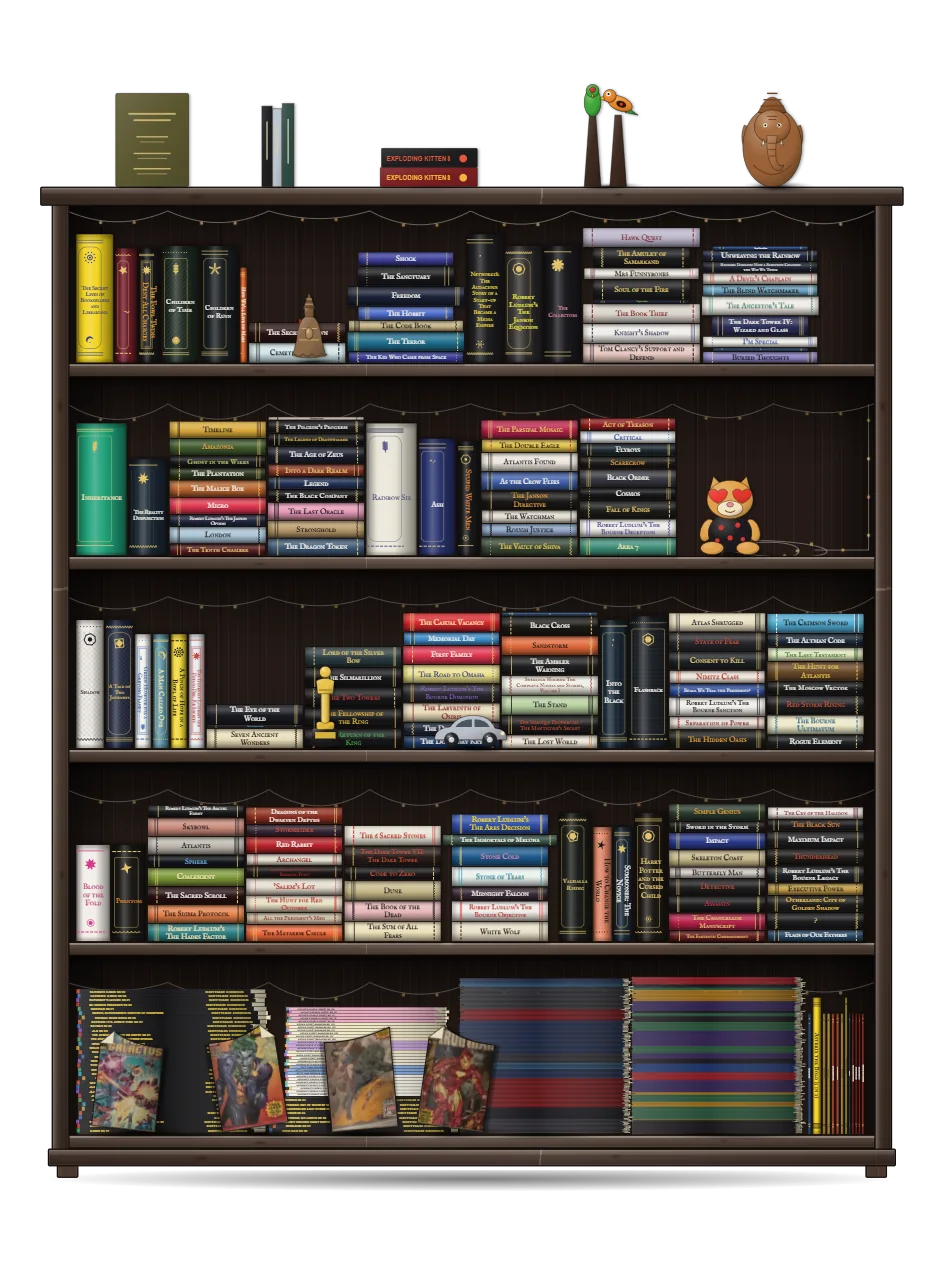
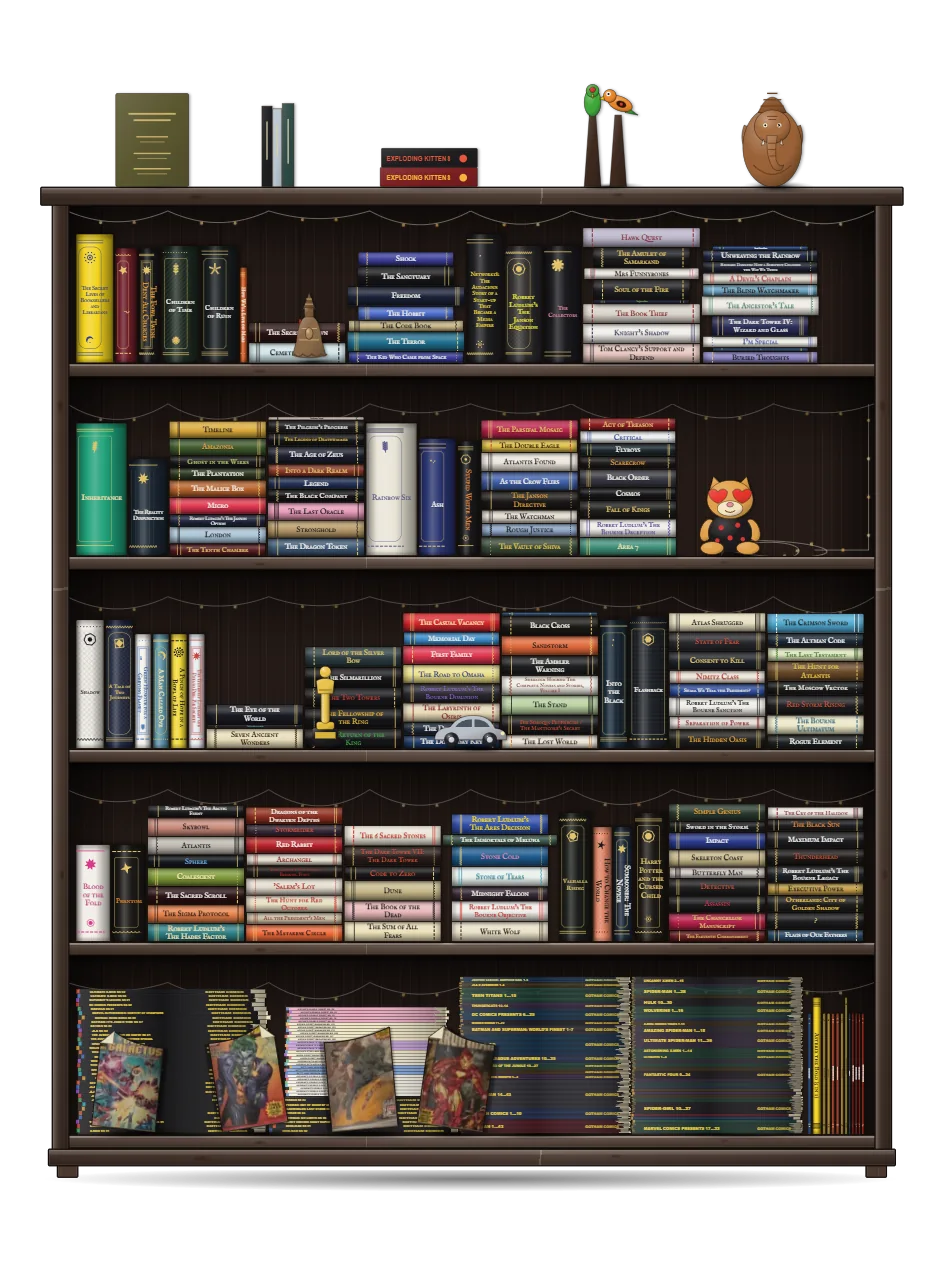
Dungeon v2.21.14
Library: the single-issue piles drawn as a set (a lettered band for each title); Gotham-style plates for titles without a cover.

Changed region(s): [[0.4579, 0.7488, 0.8547, 0.9048]]

diff --git a/assets/js/library.js b/assets/js/library.js
@@ -595,7 +595,24 @@
     const SPR=root.dataset.src.replace('data/library.json','images/comics/covers.webp'),COLS=12,ROWS=5,CWD=150,CHT=215,CC=CTX.cc||{};
     const short=t=>t.toUpperCase().replace(/&/g,'AND').replace(/\s*\(?SUPER SPECIAL (\d+)\)?/,' SS $1').replace(/\(SPECIAL (\d+)\)/,'SP $1').replace(/\s+No\.\s*/,' ').replace(/'/g,'\u2019').replace(/[<>"]/g,'');
     const cvAt=i=>[i%COLS,Math.floor(i/COLS)];
-    function pileArt(P,ms,Wo){const n=ms.length,W=Math.round(Wo||P.w||170),th=Math.min(P.th||6,(P.cap||240)/n),H=Math.ceil(n*th)+3,id='pg'+P.id.replace(/\W/g,''),lab=th>=4.2,f=v=>v.toFixed(2),fs=th*.66,GC=['#d8302a','#2f6fd0','#e7a62a','#3aa85a','#9a4ad0','#e8532a','#2ab0c8'];
+    /* A pile of single issues is a set: one band for each title, lettered with its name and the issues in it, as a boxed set is */
+    function setArt(P,ms,Wo){const W=Math.round(Wo||P.w||170),f=v=>v.toFixed(2),th=P.th||2,id='pg'+P.id.replace(/\W/g,''),PAL=['#1B1B22','#23304F','#4A1A22','#1F3F36','#33263F','#3A2E1C','#14304A','#2E2E36'];
+      const rn=i=>{const x=Math.sin(i*12.9898+W)*43758.5453;return x-Math.floor(x)},G=[],ix={};
+      ms.forEach(b=>{const n=b.t.replace(/\s+No\.\s*\d+$/,'');if(!(n in ix)){ix[n]=G.length;G.push({n,it:[]})}G[ix[n]].it.push(b)});
+      const hs=G.map(g=>Math.max(g.it.length*th,8.5)),tot=hs.reduce((a,b)=>a+b,0),k=Math.min(1,(P.cap||240)/tot),H=Math.ceil(tot*k)+3;
+      let g='<defs><linearGradient id="'+id+'" x1="0" y1="0" x2="1" y2="0"><stop offset="0" stop-color="#fff" stop-opacity=".16"/><stop offset=".45" stop-color="#fff" stop-opacity="0"/><stop offset="1" stop-color="#000" stop-opacity=".32"/></linearGradient></defs><g stroke="none">',y=1;
+      G.forEach((gr,gi)=>{const bh=hs[gi]*k,n=gr.it.length,sh=bh/n,col=PAL[(gr.n.length*7+gr.n.charCodeAt(0)+gi)%PAL.length],nums=gr.it.map(b=>+((/No\.\s*(\d+)$/.exec(b.t)||[])[1]||0)).filter(Boolean);
+        for(let i=0;i<n;i++){const yy=y+i*sh,r=rn(gi*40+i),dx=(r-.5)*W*.018,pb=W*.03+rn(gi*40+i+9)*W*.05,body=W-pb;
+          g+='<rect x="'+f(dx+body-1)+'" y="'+f(yy)+'" width="'+f(pb+1.5)+'" height="'+f(Math.max(.6,sh*.86))+'" fill="'+(rn(i+gi)>.5?'#e4d8b6':'#eee3c4')+'"/>';
+          g+='<rect x="'+f(dx)+'" y="'+f(yy)+'" width="'+f(body)+'" height="'+f(Math.max(.6,sh*.86))+'" fill="'+col+'"/>';
+          if(i%2===0)g+='<rect x="'+f(dx)+'" y="'+f(yy)+'" width="'+f(W*.014)+'" height="'+f(Math.max(.6,sh*.86))+'" fill="#e7a62a" opacity=".7"/>'}
+        g+='<rect x="0" y="'+f(y+bh-.5)+'" width="'+W+'" height=".7" fill="#000" opacity=".55"/>';
+        const fs=Math.min(bh*.52,6.6),lab=short(gr.n.replace(/^The /i,''))+(nums.length?'  '+(nums.length>1&&nums[nums.length-1]-nums[0]===nums.length-1?nums[0]+'\u2013'+nums[nums.length-1]:nums.length>1?nums[0]+'\u2026'+nums[nums.length-1]:nums[0]):'');
+        if(bh>=7.5){g+='<text x="'+f(W*.07)+'" y="'+f(y+bh*.5+fs*.36)+'" font-family="Arial,Helvetica,sans-serif" font-weight="800" font-size="'+f(fs)+'" fill="#E7C63A" textLength="'+f(Math.min(W*.6,lab.length*fs*.62))+'" lengthAdjust="spacingAndGlyphs">'+lab+'</text>';
+          if(P.imprint)g+='<text x="'+f(W*.74)+'" y="'+f(y+bh*.5+fs*.36)+'" font-family="Arial,Helvetica,sans-serif" font-weight="800" font-size="'+f(fs*.85)+'" fill="#E7C63A" textLength="'+f(W*.2)+'" lengthAdjust="spacingAndGlyphs">'+P.imprint+'</text>'}
+        y+=bh});
+      g+='<rect x="0" y="0" width="'+W+'" height="'+H+'" fill="url(#'+id+')"/></g>';return[Math.ceil(W+8),H,g]}
+    function pileArt(P,ms,Wo){if(P.sets)return setArt(P,ms,Wo);const n=ms.length,W=Math.round(Wo||P.w||170),th=Math.min(P.th||6,(P.cap||240)/n),H=Math.ceil(n*th)+3,id='pg'+P.id.replace(/\W/g,''),lab=th>=4.2,f=v=>v.toFixed(2),fs=th*.66,GC=['#d8302a','#2f6fd0','#e7a62a','#3aa85a','#9a4ad0','#e8532a','#2ab0c8'];
       const rn=i=>{const x=Math.sin(i*12.9898+W)*43758.5453;return x-Math.floor(x)};
       let g='<defs><linearGradient id="'+id+'" x1="0" y1="0" x2="1" y2="0"><stop offset="0" stop-color="#fff" stop-opacity=".16"/><stop offset=".45" stop-color="#fff" stop-opacity="0"/><stop offset="1" stop-color="#000" stop-opacity=".32"/></linearGradient></defs><g stroke="none">';
       ms.forEach((b,i)=>{const y=1+i*th,r=rn(i+3),dx=(r-.5)*(r>.86?W*.05:W*.02),h=th*(th>=4?.9:.84),pb=Math.min(W*.12,th>=4?W*.03+rn(i+9)*W*.05:W*.03),body=W-pb;
@@ -833,8 +850,8 @@
         .then(r=>r.json()).then(d=>{const id=d.docs&&d.docs[0]&&d.docs[0].cover_i,u=id?'https://covers.openlibrary.org/b/id/'+id+'-M.jpg':'';
           cache[e.t]=u;try{localStorage.setItem('dungeon-library-covers',JSON.stringify(cache))}catch(err){}show(u)}).catch(()=>{})}
     /* The card of a pile: one cover for each title, as in the photograph; a title opens to show every issue there is of it */
-    function cover(el,name,idx,b){el.className='lb-cv';if(idx!=null){const[cx,cy]=cvAt(idx);el.style.backgroundImage='url('+SPR+')';el.style.backgroundSize=COLS*100+'% '+ROWS*100+'%';el.style.backgroundPosition=(cx/(COLS-1)*100)+'% '+(cy/(ROWS-1)*100)+'%'}
-      else{el.classList.add('plate');el.style.background=b.c;el.style.color=b.c2;el.textContent=name.replace(/ No\. \d+$/,'')}return el}
+    function cover(el,name,idx,b,imp){el.className='lb-cv';if(idx!=null){const[cx,cy]=cvAt(idx);el.style.backgroundImage='url('+SPR+')';el.style.backgroundSize=COLS*100+'% '+ROWS*100+'%';el.style.backgroundPosition=(cx/(COLS-1)*100)+'% '+(cy/(ROWS-1)*100)+'%'}
+      else{el.classList.add('plate');el.style.background=b.c;el.style.color=b.c2;const t=document.createElement('span');t.textContent=name.replace(/ No\. \d+$/,'').replace(/ \(.*\)$/,'');el.appendChild(t);if(imp){const m=document.createElement('small');m.textContent=imp;el.appendChild(m)}}return el}
     function pileCard(c,m){const P=PILE[c.pile],ms=P.members,f=add(info,'div',null,'f');f.classList.add('lb-f-pile');
       const S=[],ix={};ms.forEach(b=>{const n=b.t.replace(/\s+No\.\s*\d+$/,'');if(!(n in ix)){ix[n]=S.length;S.push({n,items:[],cv:CC[n],hay:''})}const s=S[ix[n]];s.items.push(b);s.hay+=' '+b.t.toLowerCase()});
       S.forEach(s=>{s.hay=(s.n+s.hay).toLowerCase()});
@@ -845,10 +862,10 @@
       function draw(){const key=q.value.trim().toLowerCase().split(/\s+/).filter(Boolean),rows=S.filter(s=>key.every(k=>s.hay.indexOf(k)>=0)),pages=Math.max(1,Math.ceil(rows.length/12));
         if(page>=pages)page=pages-1;grid.textContent='';nav.textContent='';det.textContent='';
         rows.slice(page*12,page*12+12).forEach(s=>{const bt=add(grid,'button',null,'ct');bt.type='button';bt.setAttribute('aria-pressed',s.n===pick?'true':'false');bt.setAttribute('aria-label',s.n+', '+s.items.length+(s.items.length>1?' issues':' issue'));
-          bt.appendChild(cover(document.createElement('div'),s.n,s.cv,s.items[0]));add(bt,'b',s.n.replace(/ \(.*\)$/,''));add(bt,'small',s.items.length>1?s.items.length+' issues':'1 comic');
+          bt.appendChild(cover(document.createElement('div'),s.n,s.cv,s.items[0],P.imprint));add(bt,'b',s.n.replace(/ \(.*\)$/,''));add(bt,'small',s.items.length>1?s.items.length+' issues':'1 comic');
           bt.onclick=()=>{pick=pick===s.n?null:s.n;draw()}});
         if(pages>1)for(let i=0;i<pages;i++){const bt=add(nav,'button',(i*12+1)+'\u2013'+Math.min(rows.length,(i+1)*12),'pg');bt.type='button';bt.setAttribute('aria-pressed',i===page?'true':'false');bt.onclick=()=>{page=i;draw()}}
-        const s=pick&&S[ix[pick]];if(s){const row=add(det,'div',null,'cdr');row.appendChild(cover(document.createElement('div'),s.n,s.cv,s.items[0]));const tx=add(row,'div');add(tx,'h3',s.n);
+        const s=pick&&S[ix[pick]];if(s){const row=add(det,'div',null,'cdr');row.appendChild(cover(document.createElement('div'),s.n,s.cv,s.items[0],P.imprint));const tx=add(row,'div');add(tx,'h3',s.n);
           add(tx,'p',s.items.length>1?s.items.length+' issues, from the top of the stack down.':'One comic.');const ch=add(tx,'div',null,'chips');
           s.items.forEach((b,k)=>{const nn=/No\.\s*(\d+)$/.exec(b.t);if(nn||s.items.length>1)add(ch,'span',nn?'No. '+nn[1]:b.t,k===0?'top':null)});
           const tg=(s.items[0].tags||[]).filter(t=>t!=='Comics');if(tg.length)add(tx,'p',tg.join(', '))}

diff --git a/assets/css/library.css b/assets/css/library.css
@@ -345,7 +345,10 @@ html.lib-zoomed .lb-glow0, html.lib-zoomed .lb-glow1, html.lib-zoomed .lb-glow2 
 .lb-ct b { display: block; margin-top: 0.3rem; font-size: 0.72rem; line-height: 1.2; }
 .lb-ct small { color: var(--graphite); font-size: 0.68rem; }
 .lb-cv { aspect-ratio: 150 / 215; border-radius: 3px; background-repeat: no-repeat; background-color: #222; box-shadow: 0 2px 6px rgba(0, 0, 0, 0.4); }
-.lb-cv.plate { display: flex; align-items: center; justify-content: center; padding: 0.25rem; text-align: center; font-size: 0.58rem; font-weight: 800; line-height: 1.15; overflow: hidden; }
+/* a title with no cover: a plate in its pile's colours, ruled like the cover of a Gotham special, with the imprint at the foot */
+.lb-cv.plate { position: relative; display: flex; flex-direction: column; align-items: center; justify-content: center; gap: 0.3rem; padding: 0.4rem 0.3rem 0.9rem; text-align: center; font-size: 0.6rem; font-weight: 800; line-height: 1.15; text-transform: uppercase; letter-spacing: 0.02em; overflow: hidden; box-shadow: inset 0 0 0 3px #0c0c0e, inset 0 0 0 4.5px currentColor, 0 2px 6px rgba(0, 0, 0, 0.4); background-image: linear-gradient(135deg, rgba(255, 255, 255, 0.14), rgba(255, 255, 255, 0) 45%, rgba(0, 0, 0, 0.3)); }
+.lb-cv.plate span { display: block; padding: 0.15rem 0; border-top: 1px solid currentColor; border-bottom: 1px solid currentColor; }
+.lb-cv.plate small { position: absolute; left: 0; right: 0; bottom: 0.4rem; font-size: 0.42rem; font-weight: 800; letter-spacing: 0.06em; opacity: 0.85; }
 .lb-ct[aria-pressed="true"] .lb-cv { outline: 3px solid var(--ink); outline-offset: 1px; }
 .lb-cd { margin: 0.6rem 0 0; }
 .lb-cdr { display: flex; gap: 0.7rem; padding: 0.7rem; border: 1px solid var(--rule); border-radius: 10px; }

diff --git a/docs/library.md b/docs/library.md
@@ -60,6 +60,7 @@ The `piles` list near the top of the data file sets the piles:
 | `on` | The `id` of a pile this one stands on, as the Archie digests stand on the middle Super Specials. `dy` is how far above the shelf it rests. |
 | `back` | `true` for a pile that stands behind the front piles. Where the layers lie side by side, the back piles stand beside the front ones. |
 | `a`, `p`, `h`, `c`, `c2`, `cn` | What each comic takes unless it says otherwise: author or publisher, height, spine colour, title colour and colour name. |
+| `sets` | `true` for a pile of single issues: drawn as a boxed set, one band for each title, lettered with the title's name and the issues in it. |
 | `imprint` | Optional. A second line of lettering on each spine ("GOTHAM COMICS"). |
 | `lean` | Optional. Comics leaning on the pile, as a list of `{cv, ser, at, ang, w, h, fold, yaw, bow}`: `cv` is the cover (see below), `ser` the title in the pile it opens, `at` where along the pile (0 to 1), `ang` the lean in degrees (negative leans left), `fold` `"l"` or `"r"` for a folded top corner, `yaw` how far it is turned towards you and `bow` how much the page sags. |
 

diff --git a/CHANGELOG.md b/CHANGELOG.md
@@ -1,5 +1,10 @@
 # Changelog
 
+## 2.21.14
+
+- **The single issues are drawn as a set.** The two piles of Gotham single issues behind the Super Specials now read like a multi-volume collection: one band for each title, lettered with its name and the issues in it ("Superman 14–43", "Teen Titans 1…15"), the Gotham Comics imprint down the right, and paper showing at the end of each. Before, they were plain colour stripes.
+- **A title with no cover has a Gotham plate.** In an opened pile, a title the photograph has no cover for shows a black plate ruled in yellow, its name between two lines and the imprint at the foot, as a Gotham special looks.
+
 ## 2.21.13
 
 - **Every shelf is full, end to end.** On the shelves as they really are, each row's standing books are widened a little (by a third at the most) until the row reaches both ends: Shelves 1 to 5 no longer have strips of empty board. The thicknesses in the data are estimates, so this evens them out.
